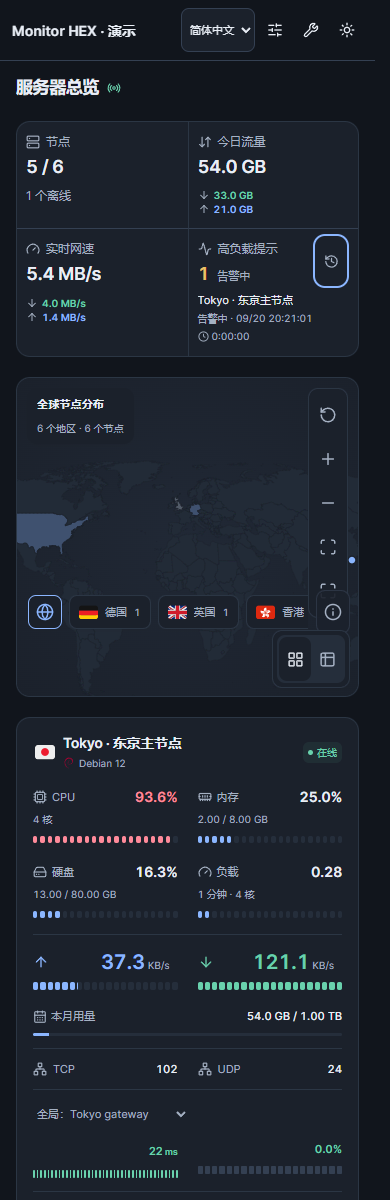
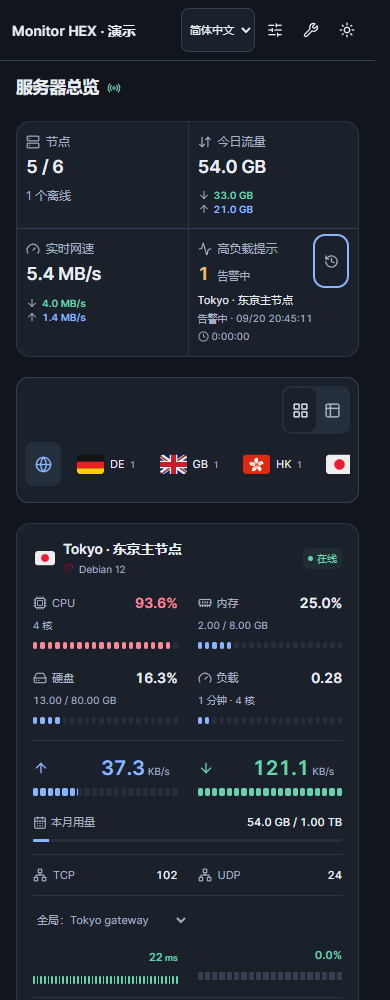
Hide homepage map on mobile while preserving region filters

diff --git a/tests/regions.spec.ts b/tests/regions.spec.ts
@@ -22,8 +22,37 @@ test('country flags appear only without map and retain the selected region',asyn
  expect(await page.evaluate(()=>document.documentElement.scrollWidth<=innerWidth)).toBeTruthy()
  await page.screenshot({path:'tests/artifacts/regions-flags-mobile.png'})
  await toggleSettings(page);await page.getByLabel('首页地图',{exact:true}).check();await toggleSettings(page)
- await expect(regions).toHaveCount(0)
- await page.locator('.region-atlas').screenshot({path:'tests/artifacts/regions-map-mobile.png'})
+ await expect(regions).toBeVisible()
+ await expect(page.locator('.region-atlas')).toHaveCount(0)
+ await regions.getByRole('button',{name:/JP/}).click()
+ await expect(page.locator('.node-card')).toHaveCount(1)
+ await page.screenshot({path:'tests/artifacts/regions-mobile.png'})
  await page.setViewportSize({width:1440,height:1000})
+ await expect(regions).toHaveCount(0)
+ await expect(page.locator('.region-list button[data-region="JP"]')).toHaveAttribute('aria-pressed','true')
  await page.locator('.region-atlas').screenshot({path:'tests/artifacts/regions-map-desktop.png'})
 })
+
+for (const width of [320,390,720]) {
+ test('mobile first visit keeps region and view controls at '+width+'px',async({page})=>{
+  await page.setViewportSize({width,height:844})
+  await page.goto('/')
+  await expect(page.locator('.region-atlas,.map-placeholder')).toHaveCount(0)
+  const regions=page.getByRole('group',{name:'地区快速筛选'})
+  await expect(regions).toBeVisible()
+  await regions.getByRole('button',{name:/JP/}).click()
+  await expect(page.locator('.node-card')).toHaveCount(1)
+  await page.getByLabel('表格视图').click()
+  await expect(page.locator('tbody tr')).toHaveCount(1)
+  await page.getByLabel('卡片视图').click()
+  await page.reload()
+  await expect(regions.getByRole('button',{name:/JP/})).toHaveAttribute('aria-pressed','true')
+  await regions.getByRole('button',{name:'所有地区',exact:true}).click()
+  await expect(page.locator('.node-card')).toHaveCount(6)
+  expect(await page.evaluate(()=>document.documentElement.scrollWidth<=innerWidth)).toBeTruthy()
+  await page.setViewportSize({width:721,height:844})
+  await expect(page.locator('.region-atlas')).toBeVisible()
+  await page.setViewportSize({width,height:844})
+  await expect(page.locator('.region-atlas')).toHaveCount(0)
+ })
+}

diff --git a/src/App.tsx b/src/App.tsx
@@ -88,7 +88,15 @@ export default function App({ siteDefaults = defaults }: {
     useEffect(() => { try { sessionStorage.setItem('monitor-next-collection-v1', JSON.stringify({ system })) } catch { /* Optional storage. */ } }, [system]);
     const [browseState, setBrowse] = useState<Browse>(() => {const old=readBrowse();return {...old,status:"all",query:"",sort:old.view === "table" ? old.sort : "default",direction:old.view === "table" ? old.direction : "asc"}});
     const browse = useMemo(()=>({...browseState, probe:prefs.probe}),[browseState,prefs.probe]);
-    const mapVisible = browse.view === "cards" && prefs.modules.map;
+    const [compactViewport, setCompactViewport] = useState(() => window.matchMedia('(max-width: 720px)').matches);
+    useEffect(() => {
+        const media = window.matchMedia('(max-width: 720px)');
+        const update = () => setCompactViewport(media.matches);
+        update();
+        media.addEventListener('change', update);
+        return () => media.removeEventListener('change', update);
+    }, []);
+    const mapVisible = browse.view === "cards" && prefs.modules.map && !compactViewport;
     const { status, region } = browse;
     const patchBrowse = (patch: Partial<Browse>) => setBrowse(prev => ({ ...prev, ...patch }));
     const setQuery = (query: string) => patchBrowse({ query });

diff --git a/tests/map.spec.ts b/tests/map.spec.ts
@@ -31,7 +31,11 @@ test('map supports zoom, pan, fit, filtering and fullscreen without stealing pag
  for(const width of [390,320]){
   await page.setViewportSize({width,height:900})
   expect(await page.evaluate(()=>document.documentElement.scrollWidth<=innerWidth)).toBeTruthy()
-  const marker=(await map.locator('.small-region-hit').first().boundingBox())!;expect(marker.width).toBeGreaterThan(25)
+  await expect(map).toHaveCount(0)
+  await expect(page.getByRole('group',{name:'地区快速筛选'})).toBeVisible()
+  await expect(page.getByLabel('表格视图')).toBeVisible()
  }
- await map.screenshot({path:'tests/artifacts/map-mobile.png'})
+ await page.screenshot({path:'tests/artifacts/mobile-home.png'})
+ await page.setViewportSize({width:1440,height:1000})
+ await expect(map).toBeVisible()
 })

diff --git a/playwright.config.ts b/playwright.config.ts
@@ -1,6 +1,8 @@
 import { defineConfig } from '@playwright/test'
+const port = process.env.THEME_DEMO_PORT || '4173'
+const baseURL = `http://127.0.0.1:${port}`
 export default defineConfig({
   testDir: './tests', fullyParallel: false,
-  use: { baseURL: 'http://127.0.0.1:4173', channel: process.env.TEST_BROWSER || 'chrome', reducedMotion: 'reduce', viewport: { width: 1440, height: 1000 } },
-  webServer: { command: 'npm run demo', url: 'http://127.0.0.1:4173', reuseExistingServer: true },
+  use: { baseURL, channel: process.env.TEST_BROWSER || 'chrome', reducedMotion: 'reduce', viewport: { width: 1440, height: 1000 } },
+  webServer: { command: 'npm run demo', url: baseURL, reuseExistingServer: false },
 })

diff --git a/ACCEPTANCE.md b/ACCEPTANCE.md
@@ -1,10 +1,10 @@
-# Monitor HEX 0.06 检查说明
+# Monitor HEX 0.07 检查说明
 
 当前源码的检查入口如下。测试使用本地演示数据，不代表已完成真实服务器部署验证。
 
 ## 最近验证
 
-2026-09-20 仓库清理后：静态检查、业务单元测试、361 处文字翻译覆盖检查和生产打包通过；Chrome 浏览器测试 25/25 通过。此次未重跑 Edge。
+2026-09-20 手机首页优化后：静态检查、业务单元测试、361 处文字翻译覆盖检查和生产打包通过；Chrome 浏览器测试 28/28 通过。此次未重跑 Edge。
 
 ## 自动检查
 
@@ -16,11 +16,13 @@ npm run package
 npm run test:e2e
 ```
 
+测试会启动独立预览服务；如果默认 4173 端口已被占用，先设置 `$env:THEME_DEMO_PORT = '4287'`。
+
 需要 Node.js 24，以及已安装的 Chrome。PowerShell 中运行 `$env:TEST_BROWSER = 'msedge'` 后可用同一命令验证 Edge。
 
 ## 浏览器检查范围
 
-25 项用例按功能组织：
+28 项用例按功能组织：
 
 - `detail-resources.spec.ts`：资源图切换、刷新、窄屏、图形风格、空数据、失败重试、离线与采样间断。
 - `detail-routes.spec.ts`：线路继承、比较、详情布局、缺失线路和长文本。
@@ -29,7 +31,7 @@ npm run test:e2e
 - `table.spec.ts`：流量计费、列控制、到期倒计时。
 - `load-alerts.spec.ts`：高负载历史、恢复、中断、持久化与键盘交互。
 - `defaults-and-freshness.spec.ts`：站点默认值、用户选择优先级、过期数据与连接恢复。
-- `map.spec.ts`、`regions.spec.ts`：地图缩放、拖拽、适配、全屏和地区筛选。
+- `map.spec.ts`、`regions.spec.ts`：桌面地图缩放、拖拽、适配、全屏，以及手机地区筛选。新增 320/390/720px 首次访问、筛选持久化、卡片/表格切换及 720/721px 边界验证。
 
 业务单元测试保存在 `src/lib/*.test.ts`，另有文字翻译覆盖检查。截图输出到忽略的 `tests/artifacts/`，测试运行结果输出到 `test-results/`。
 

diff --git a/CHANGELOG.md b/CHANGELOG.md
@@ -1,13 +1,11 @@
 # Monitor HEX 当前版本
 
-## 0.06
+## 0.07
 
-- 节点切换入口合并到详情标题；桌面浮层、手机底部面板，支持搜索、键盘关闭和焦点回归。
-- 切换节点保留资源/延迟页签、时间范围与线路选择。
-- 首页卡片进入资源历史；点击线路延迟直达对应线路历史。
-- 高负载记录支持跳转 CPU 历史，并提示无法覆盖的历史时段。
-- 地图支持恢复默认位置；表格首列固定、数字右对齐。
-- 历史刷新显示最后成功获取时间，失败不更新成功时间。
-- 保留四种指标布局、明暗模式、表格流量与到期、站点默认值和现有用户偏好。
+- 手机端（视口宽度不超过 720px）不再显示首页世界地图，避免地图裁切和控件遮挡。
+- 保留地区筛选、节点数量与卡片/表格切换，优先展示节点资源。
+- 不修改用户的地图开关；切回桌面宽度后按原设置恢复地图，地区选择保持一致。
+- 手机首次访问无需加载世界地图组件。
+- 更新手机预览图，新增窄屏与屏幕宽度切换的回归测试。
 
-仓库仅保留当前版本的开发、测试和使用资料。来源与许可见 `NOTICE.md`。
+来源与许可见 `NOTICE.md`，验证记录见 `ACCEPTANCE.md`。
